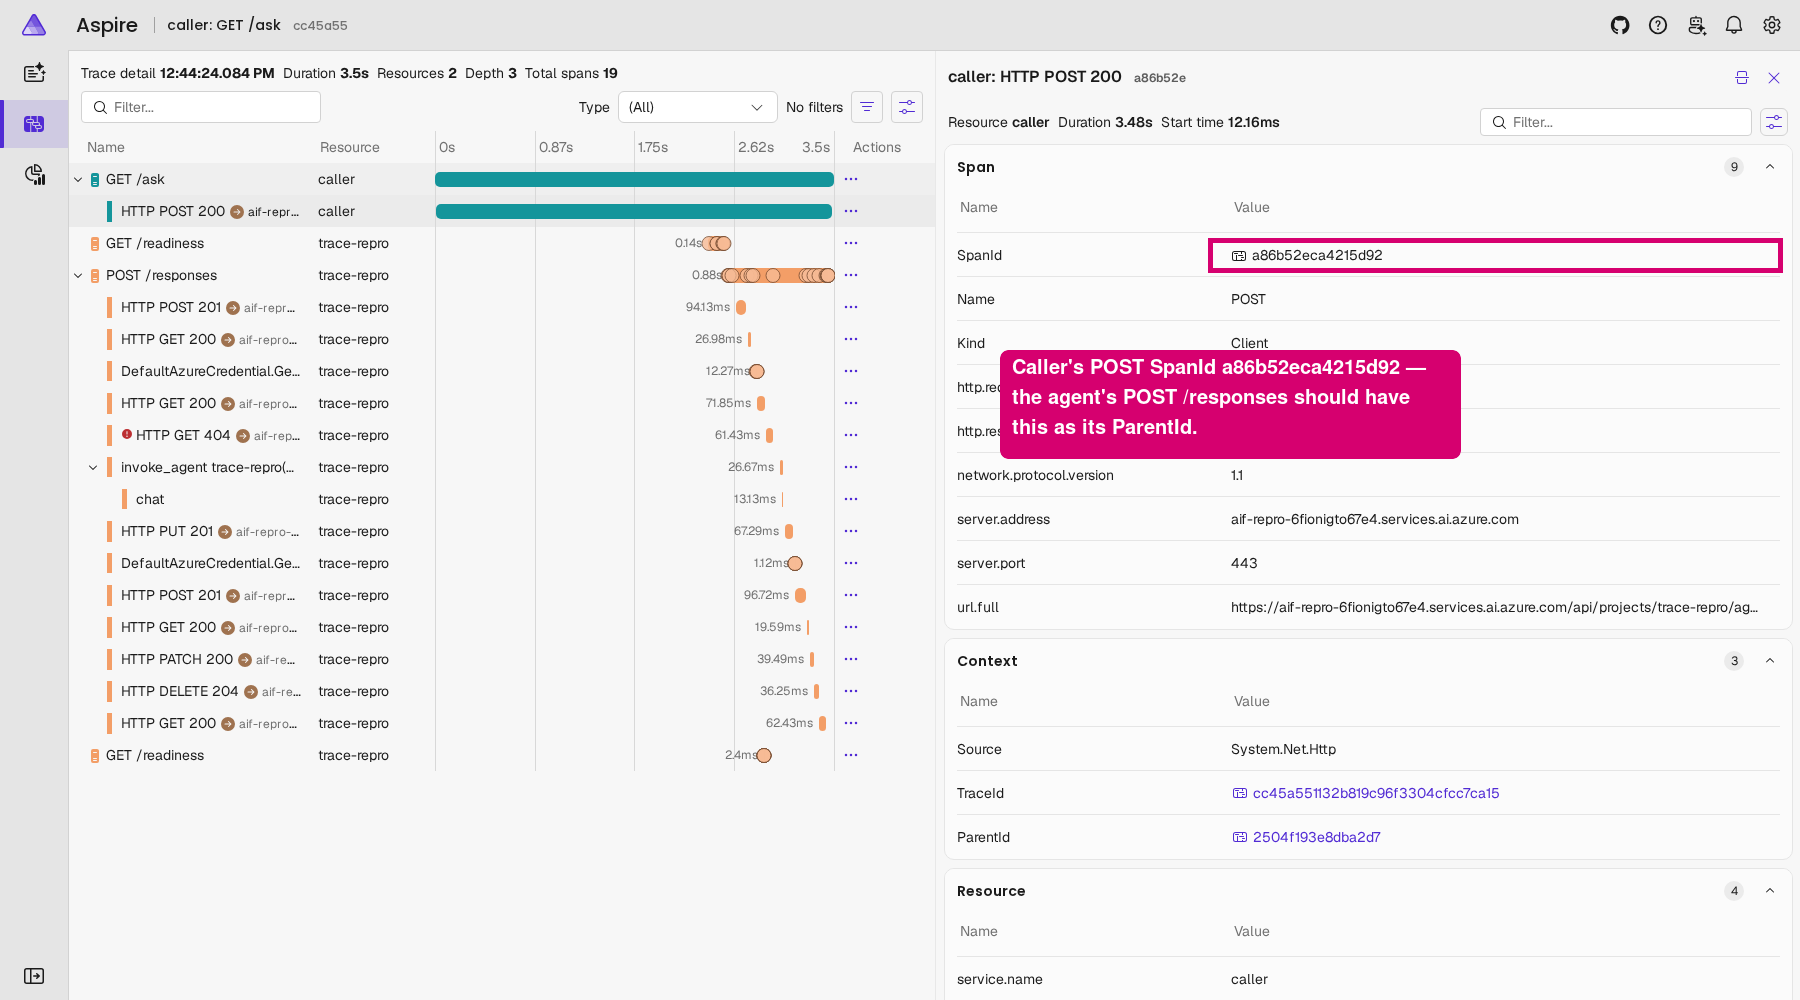
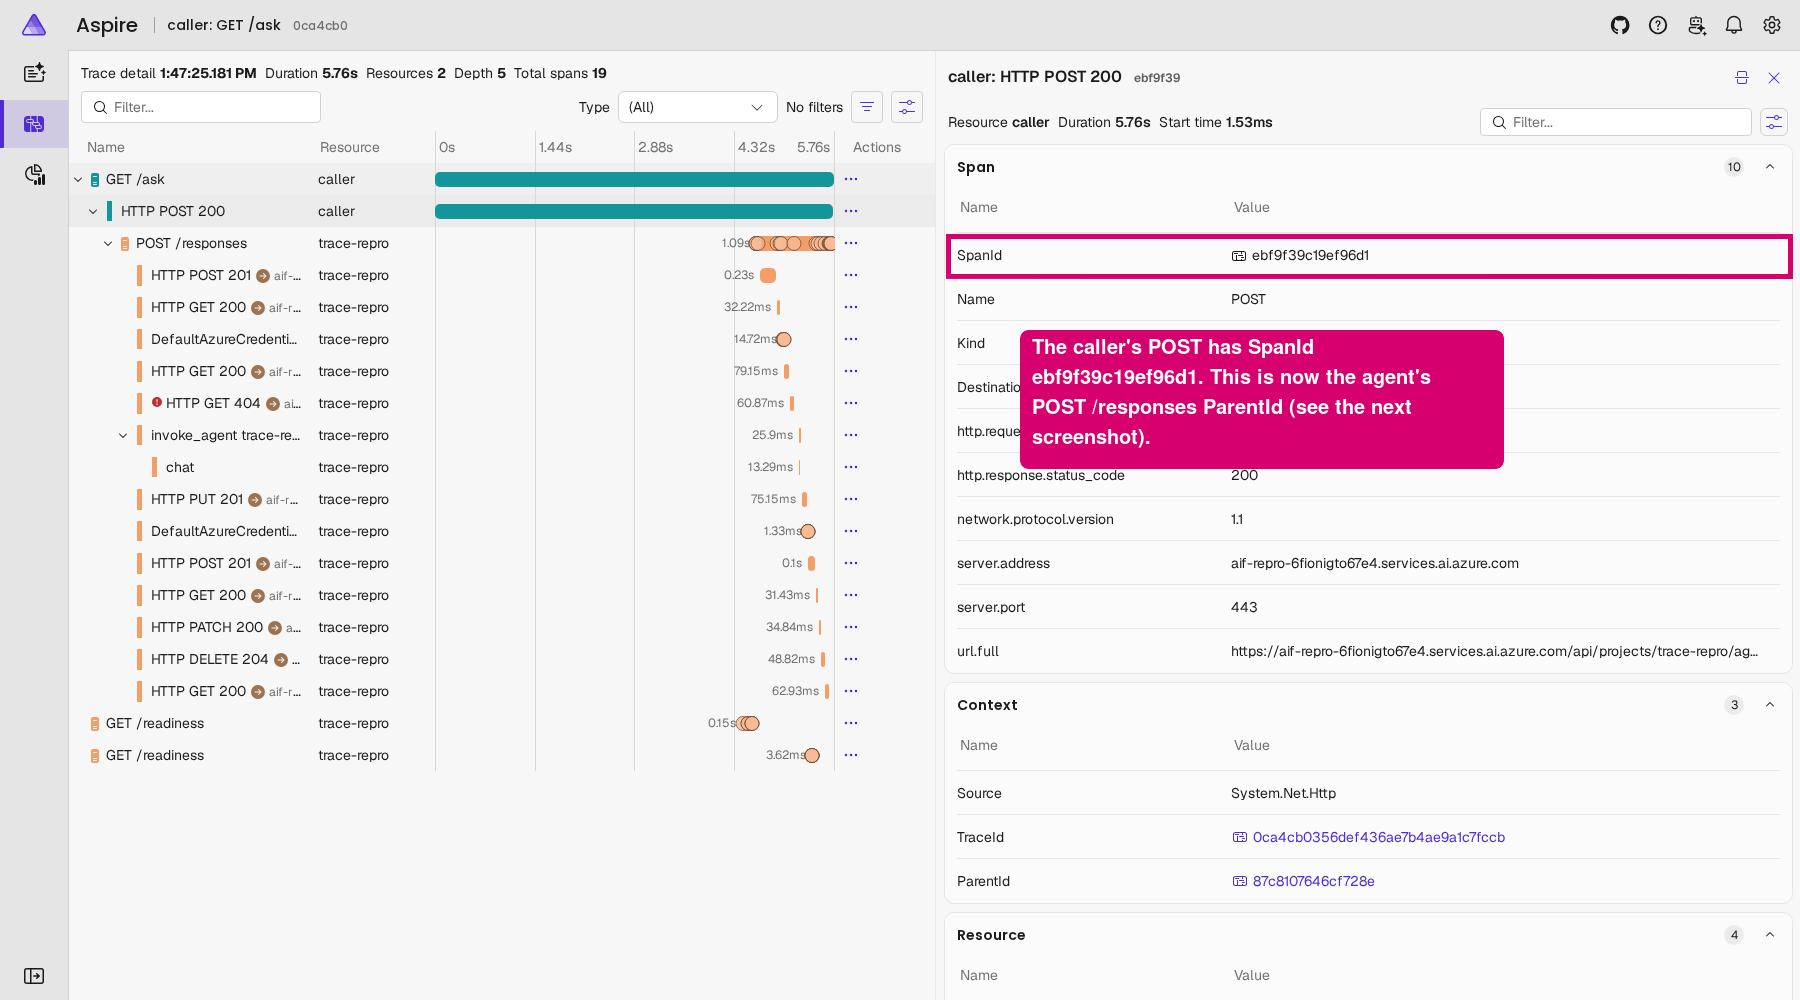
Capture the joined trace and rewrite the workaround writeup
With the ClientHeaderTextMapPropagator fix, the x-client-* workaround now
joins the trace: the agent's POST /responses ParentId matches the
caller's outbound POST SpanId, confirmed live (trace
0ca4cb0356def436ae7b4ae9a1c7fccb, SpanId/ParentId ebf9f39c19ef96d1).

Replaces docs/images/06-10 with new annotated, redacted captures of the
joined trace, and rewrites the README's "Workaround: x-client-* headers"
section: states plainly that it works, explains why both the DI
DistributedContextPropagator and the OTel default TextMapPropagator have
to be overridden (OpenTelemetry's ASP.NET Core instrumentation performs
its own independent extraction and replaces the activity when the two
disagree), and removes the earlier "Agent365 Observability platform
pipeline" speculation, which was never the actual cause. The broken-trace
story on main is unchanged, and the asks to Foundry still stand.

Claude-Session: https://claude.ai/code/session_01Ttd2BrYapGTagWFKUjK6Yt

diff --git a/README.md b/README.md
@@ -119,7 +119,7 @@ SUBSCRIPTION=<subscription-id> ./teardown.sh
 
 ## Workaround: x-client-* headers
 
-The asks above still stand: this section is not a fix, it is what we tried after being told Foundry's hosted-agent runtime forwards `x-client-*`-prefixed headers unchanged, while it rewrites the plain `traceparent`. The idea: have the caller send its real parent twice, once as the plain `traceparent` (which the platform rewrites) and once as `x-client-traceparent` (which it should pass through), and have the agent prefer the second one when extracting its own context.
+The asks above still stand: this is a workaround, not a fix, built after being told Foundry's hosted-agent runtime forwards `x-client-*`-prefixed headers unchanged, while it rewrites the plain `traceparent`. The idea: have the caller send its real parent twice, once as the plain `traceparent` (which the platform rewrites) and once as `x-client-traceparent` (which it does pass through), and have the agent prefer the second one when extracting its own context. **It works:** with the switch on, the agent's `POST /responses` is a child of the caller's `POST`, in one connected trace.
 
 It is a deploy-time switch, off by default: `clientHeaderPropagation bool = false` in `infra/main.bicep`, wired to a `CLIENT_HEADER_PROPAGATION` environment variable on both the caller container and the agent version. Deploy with it on:
 
@@ -131,51 +131,50 @@ CLIENT_HEADER_PROPAGATION=true SUBSCRIPTION=<subscription-id> ./deploy.sh
 
 **Caller side**, when on: `caller/ClientHeaderPropagator.cs` is a `TextMapPropagator` that wraps the default W3C one and additionally writes `x-client-traceparent` (plus `x-client-tracestate` and `x-client-baggage` when present), installed with `Sdk.SetDefaultTextMapPropagator`. A propagator, not an ad-hoc header or a span processor, so every outgoing call gets it automatically and consistently with how the SDK already injects context.
 
-**Agent side**, when on: `agent/ClientHeaderContextPropagator.cs` is a `DistributedContextPropagator` that prefers `x-client-traceparent`/`x-client-tracestate`/`x-client-baggage` when present and valid, falling back to the platform's default otherwise. Getting this registered in the right place took checking the hosting library's own source: `Sdk.SetDefaultTextMapPropagator` and `DistributedContextPropagator.Current` are both the *wrong* extension point here, because ASP.NET Core's hosting layer resolves the propagator for its own server-span creation from DI (`services.TryAddSingleton(DistributedContextPropagator.Current)`, captured once while `AgentHost.CreateBuilder` sets up its `WebApplication` builder, before application code runs), not by re-reading `.Current` per request. So the override is registered as a later DI singleton instead, which wins:
+**Agent side**, when on, two separate overrides both have to be in place, or the join does not happen:
 
-```csharp
-builder.Services.AddSingleton<DistributedContextPropagator>(
-    new ClientHeaderContextPropagator(DistributedContextPropagator.Current));
-```
+1. `agent/ClientHeaderContextPropagator.cs` is a `DistributedContextPropagator` that prefers `x-client-traceparent`/`x-client-tracestate`/`x-client-baggage` when present and valid, falling back to the platform's default otherwise. Getting this registered in the right place took checking the hosting library's own source: `Sdk.SetDefaultTextMapPropagator` and `DistributedContextPropagator.Current` are both the *wrong* extension point here, because ASP.NET Core's hosting layer resolves the propagator for its own server-span creation from DI (`services.TryAddSingleton(DistributedContextPropagator.Current)`, captured once while `AgentHost.CreateBuilder` sets up its `WebApplication` builder, before application code runs), not by re-reading `.Current` per request. So the override is registered as a later DI singleton instead, which wins:
 
-Verified against a standalone (non-hosted) run of this exact binary: with both `traceparent` and `x-client-traceparent` sent with different span ids, the resulting server span's ParentId matched `x-client-traceparent`, not `traceparent`. `agent/ClientHeaderLink.cs` additionally adds a span link to whatever context the platform's own `traceparent` carried, whenever it differs from `x-client-traceparent`, using an `ActivityListener` on the `Microsoft.AspNetCore` source rather than a span processor, so it runs synchronously before the span is exported and needs no `TracerProviderBuilder` changes.
+   ```csharp
+   builder.Services.AddSingleton<DistributedContextPropagator>(
+       new ClientHeaderContextPropagator(DistributedContextPropagator.Current));
+   ```
 
-The screenshots below are from a deployment with the switch on (agent version 10), trace `cc45a551132b819c96f3304cfcc7ca15`, same blurring convention as above.
+2. `agent/ClientHeaderTextMapPropagator.cs`, installed with `Sdk.SetDefaultTextMapPropagator` from inside `ConfigureOpenTelemetryTracerProvider` (so it runs after `AgentHost.CreateBuilder` has installed its own default, and wins). This one was the missing piece in an earlier attempt at this workaround, which shipped only the DI propagator above and still saw the agent's span parented to the platform's rewritten `traceparent`. The DI propagator **does** correctly parent the ASP.NET Core activity to `x-client-traceparent` — but OpenTelemetry's ASP.NET Core instrumentation (`OpenTelemetry.Instrumentation.AspNetCore`) performs a *second*, independent extraction of its own, from `Propagators.DefaultTextMapPropagator`, to decide what to export. When that second extraction's trace id, parent span id or trace state disagree with the activity the DI propagator already parented, the instrumentation discards that activity and starts a replacement parented to its own extraction instead — and it is the replacement that gets exported. So without this second override, the DI propagator's correct work was silently thrown away every time. Both overrides share one parsing rule, `agent/ClientHeaderTraceParent.cs` (fed through the shared header names in `agent/ClientHeaderNames.cs`), so the two extractions can never disagree with each other.
 
-![The GET /ask trace with the switch on, showing the same orphaned top-level rows as the default repro](docs/images/06-xclient-trace-still-broken.png)
+`agent/ClientHeaderLink.cs` additionally adds a span link to whatever context the platform's own `traceparent` carried, whenever it differs from `x-client-traceparent`, using an `ActivityListener` on the `Microsoft.AspNetCore` source rather than a span processor, so it runs synchronously before the span is exported and needs no `TracerProviderBuilder` changes. It stays visible in the trace below purely as a secondary link, not as the span's parent.
 
-*Same shape as the switch-off trace (see 01): `POST /responses` and both `GET /readiness` are still top-level rows, not nested under the caller's `POST`.*
+The screenshots below are from a deployment with the switch on (agent version 12), trace `0ca4cb0356def436ae7b4ae9a1c7fccb`, same blurring convention as above.
 
-![Span details of the caller's POST with the switch on, showing SpanId a86b52eca4215d92](docs/images/07-xclient-caller-post-span.png)
+![The GET /ask trace with the switch on, now showing POST /responses nested under the caller's POST](docs/images/06-xclient-trace-joined.png)
 
-*The caller's `POST` has SpanId `a86b52eca4215d92` — this is what the agent's `POST /responses` should have as its ParentId.*
+*Joined: `POST /responses` is now nested one level under the caller's `POST`, not a top-level row (contrast with 01). The two `GET /readiness` rows are still top-level — they are the platform's own health checks, which never carry `x-client-*` headers, so this workaround does not touch them, and they stay orphaned exactly as in the switch-off repro.*
+
+![Span details of the caller's POST with the switch on, showing SpanId ebf9f39c19ef96d1](docs/images/07-xclient-caller-post-span.png)
+
+*The caller's `POST` has SpanId `ebf9f39c19ef96d1` — this is what the agent's `POST /responses` now has as its ParentId.*
 
 ![Span details of the agent's POST /responses with the switch on, with repro.x_client_headers_received outlined as x-client-traceparent](docs/images/08-xclient-headers-received.png)
 
-*Evidence the platform does forward `x-client-*` headers unchanged: the agent tags its own span with the names of the `x-client-*` headers it received (never values) — `repro.x_client_headers_received` reads `x-client-traceparent`. So the header the caller sent arrives at the container intact.*
+*Evidence the platform forwards `x-client-*` headers unchanged: the agent tags its own span with the names of the `x-client-*` headers it received (never values) — `repro.x_client_headers_received` reads `x-client-traceparent`. So the header the caller sent arrives at the container intact.*
 
-![Context section of the agent's POST /responses, with Source and ParentId outlined, ParentId still 15af1389853af627](docs/images/09-xclient-parentid-still-platform.png)
+![Context section of the agent's POST /responses, with Source and ParentId outlined, ParentId now ebf9f39c19ef96d1](docs/images/09-xclient-parentid-joined.png)
 
-*And yet ParentId is still `15af1389853af627`, not the caller's SpanId `a86b52eca4215d92`. This span is confirmed as ASP.NET Core's own request span (`Microsoft.AspNetCore` source) — exactly where the DI-registered `DistributedContextPropagator` override is correctly wired, and which does take effect in a standalone run of the same binary — but in the real hosted runtime its ParentId still matches the platform's own rewritten `traceparent`, not `x-client-traceparent`.
+*ParentId is now `ebf9f39c19ef96d1` — the caller's `POST` SpanId from the screenshot above. This span is ASP.NET Core's own request span (`Microsoft.AspNetCore` source), extracted via the DI-registered `DistributedContextPropagator` override, and this time OpenTelemetry's own extraction (`ClientHeaderTextMapPropagator`) agrees with it, so the instrumentation keeps this activity instead of replacing it.*
 
-![Links section of the agent's POST /responses, showing one link to span 15af138 with description referencing the platform's traceparent](docs/images/10-xclient-span-link.png)
+![Links section of the agent's POST /responses, showing one link to the platform's traceparent context](docs/images/10-xclient-span-link.png)
 
-*The span link `ClientHeaderLink` adds, pointing at the context from the platform's `traceparent`. It points at the same span as the broken ParentId above, because here the two happen to be the same: the override did not change which parent the hosted runtime's server span actually used.*
+*The span link `ClientHeaderLink` still adds, pointing at the context the platform's own (rewritten) `traceparent` carried. Unlike before, this is now purely informational: the link target is not the span's ParentId, which already correctly points at the caller.*
 
-**Why, as best we can tell:** Foundry's hosted-agent containers run an always-on, platform-reserved tracing pipeline ("Agent365 Observability") alongside the application's own OpenTelemetry SDK — every span in this repo, including the ones above, carries `telemetry.sdk.name=A365ObservabilitySDK` or is otherwise shaped by it, and it is controlled by `FOUNDRY_AGENT365_TRACING_ENABLED`. We tried setting that to `false` through the Foundry REST API to test the theory directly and the agent-versions endpoint rejected it outright:
+This workaround needs both propagator overrides because ASP.NET Core's server span is decided twice: once by the hosting layer's own DI-resolved `DistributedContextPropagator` (which creates and parents the activity), and again, independently, by OpenTelemetry's ASP.NET Core instrumentation reading `Propagators.DefaultTextMapPropagator` (which decides what actually gets exported, replacing the activity if its own extraction disagrees). An earlier attempt at this workaround overrode only the first and, seeing the join still fail, concluded a platform-reserved tracing pipeline must be silently taking over parenting. That conclusion was wrong: nothing about Foundry's platform pipeline was involved. The span still carries a `telemetry.sdk.name=A365ObservabilitySDK` attribute either way — it turns out to be just an attribute the hosting layer tags onto the one ASP.NET Core span, not evidence of a second, platform-owned span or pipeline deciding the export.
 
-```
-Environment variable 'FOUNDRY_AGENT365_TRACING_ENABLED' is reserved for platform use.
-All FOUNDRY_* and AGENT_* variables are reserved per container-image-spec.
-```
-
-So there is no supported way to disable or reconfigure that pipeline from application code or deploy-time config. Our reading is that this reserved pipeline, not the ASP.NET Core request pipeline our propagator override reaches, is what ultimately decides the exported `POST /responses` span's parent — which would explain why headers demonstrably arrive intact and the documented SDK extension point is demonstrably wired correctly (both shown above), while the join still does not happen. We cannot fully confirm this from outside the platform: the Agent365 pipeline's internals are not public. That gap is itself part of the ask — if `x-client-*` headers are meant as a caller-supplied override, the component that actually owns parenting in the hosted runtime needs to honor them too, not just the application's own ASP.NET Core pipeline.
+This is still a workaround, not a fix, and the asks to Foundry above still stand: the platform should not need a second, duplicated header just to preserve the caller's real parent, and a caller sending a plain W3C `traceparent` should be able to trust that it comes through unmodified.
 
 After testing, this repo's live deployment is redeployed with the switch back off, matching the default.
 
 ## Versions
 
-Run on 2026-10-25 in uksouth.
+Run on 2026-10-25 and 2026-10-26 in uksouth.
 
 | Component | Version |
 | --- | --- |
